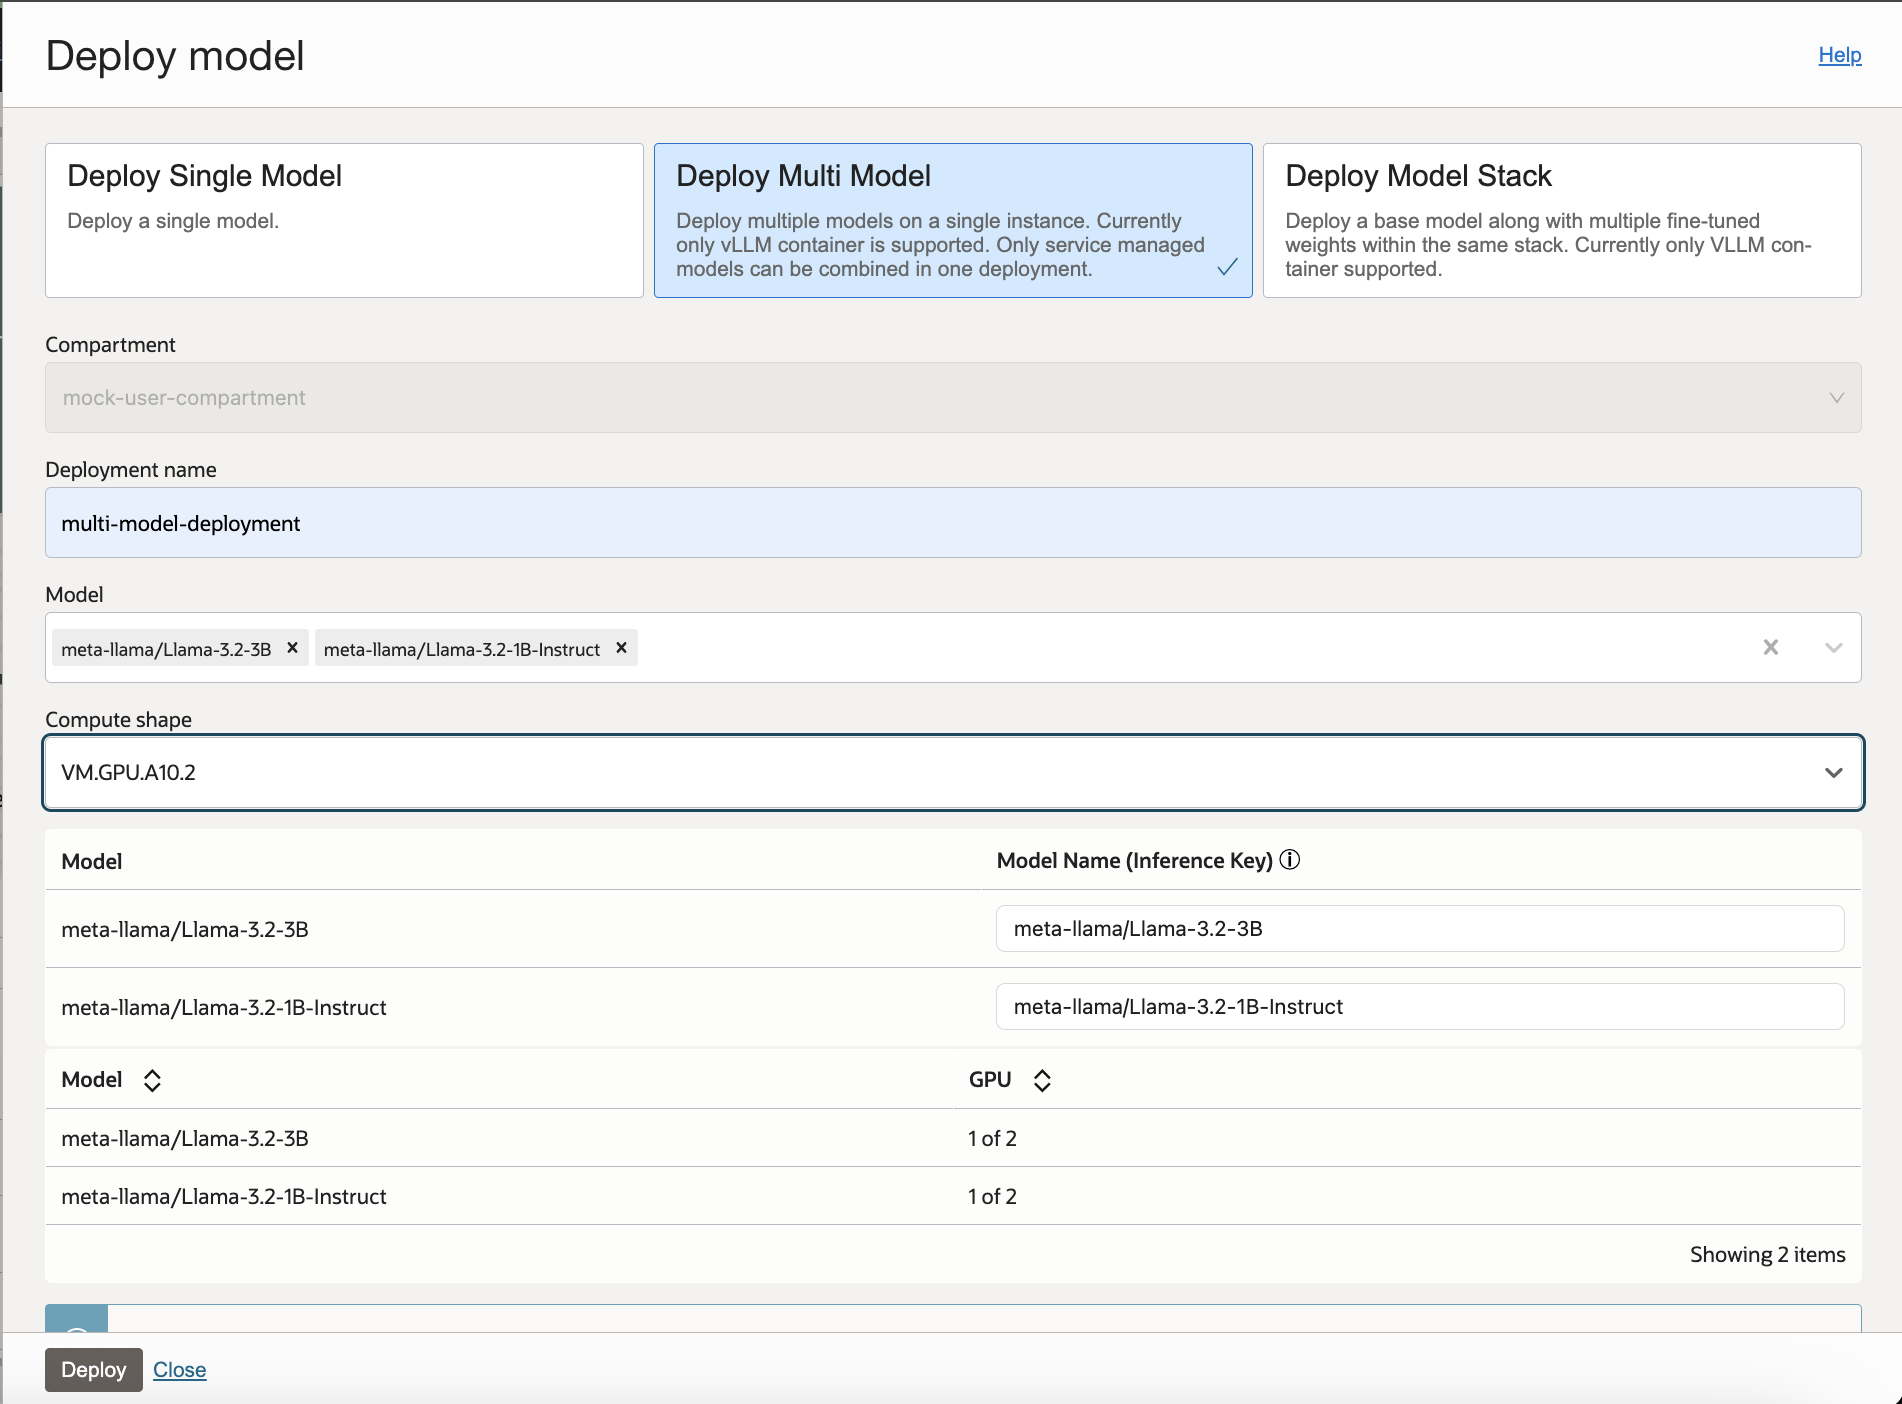
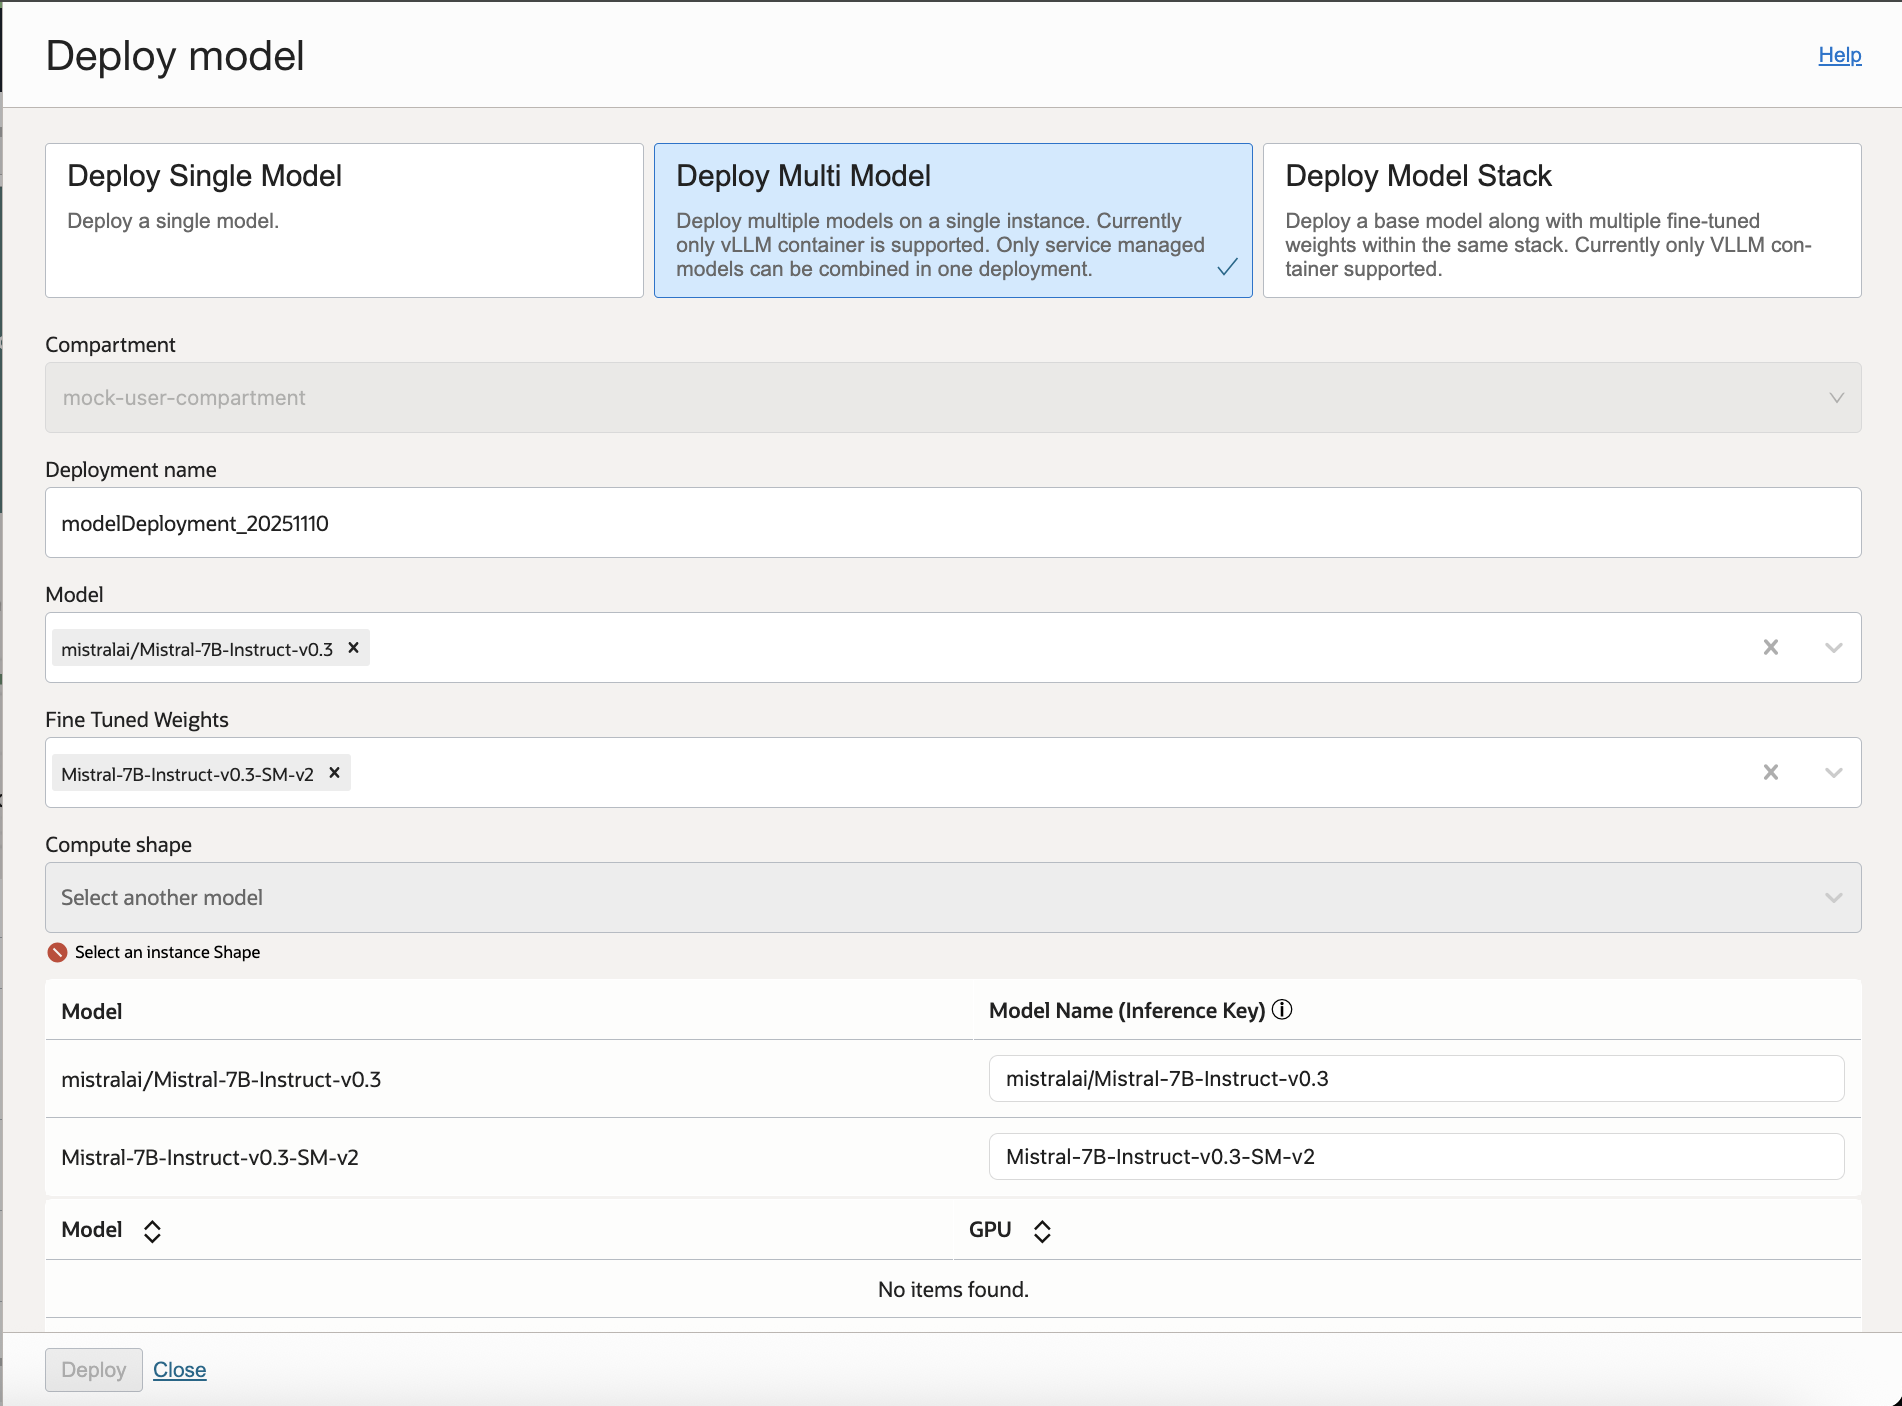
Updated pr.

diff --git a/ai-quick-actions/multimodel-deployment-tips.md b/ai-quick-actions/multimodel-deployment-tips.md
@@ -103,9 +103,15 @@ Only Multi-Model Deployments with **base service LLM models (text-generation)** 
 
 ### Select 'Deploy Multi Model'
 - Based on the 'models' field, a Compute Shape will be recommended to accomidate both models.
+- Select the 'Fine Tuned Weights'.
+  - Only fine tuned model with version `V2` is allowed to be deployed as weights in Multi Deployment. For deploying old fine tuned model weight, run the following command to convert it to version `V2` and apply the new fine tuned model to the deployment creation. This command deletes the old fine tuned model by default after conversion but you can add ``--delete_model False`` to keep it instead.
+
+  ```bash
+  ads aqua model convert_fine_tune --model_id [FT_OCID]
+  ```
 - Select logging and endpoints (/v1/completions | /v1/chat/completions).
 - Submit form via 'Deploy Button' at bottom.
-![mmd-form](web_assets/deploy-mmd.png)
+![mmd-form](web_assets/deploy-multi.png)
 
 ### Inferencing with Multi-Model Deployment
 
@@ -474,8 +480,13 @@ ads aqua deployment get_multimodel_deployment_config --model_ids '["ocid1.datasc
 
 ## 3. Create Multi-Model Deployment
 
-Only **base service LLM models** are supported for MultiModel Deployment. All selected models will run on the same **GPU shape**, sharing the available compute resources. Make sure to choose a shape that meets the needs of all models in your deployment using [MultiModel Configuration command](#get-multimodel-configuration)
+All selected models will run on the same **GPU shape**, sharing the available compute resources. Make sure to choose a shape that meets the needs of all models in your deployment using [MultiModel Configuration command](#get-multimodel-configuration)
 
+Only fine tuned model with version `V2` is allowed to be deployed as weights in Multi Deployment. For deploying old fine tuned model weight, run the following command to convert it to version `V2` and apply the new fine tuned model OCID to the deployment creation. This command deletes the old fine tuned model by default after conversion but you can add ``--delete_model False`` to keep it instead.
+
+```bash
+ads aqua model convert_fine_tune --model_id [FT_OCID]
+```
 
 ### Description
 
